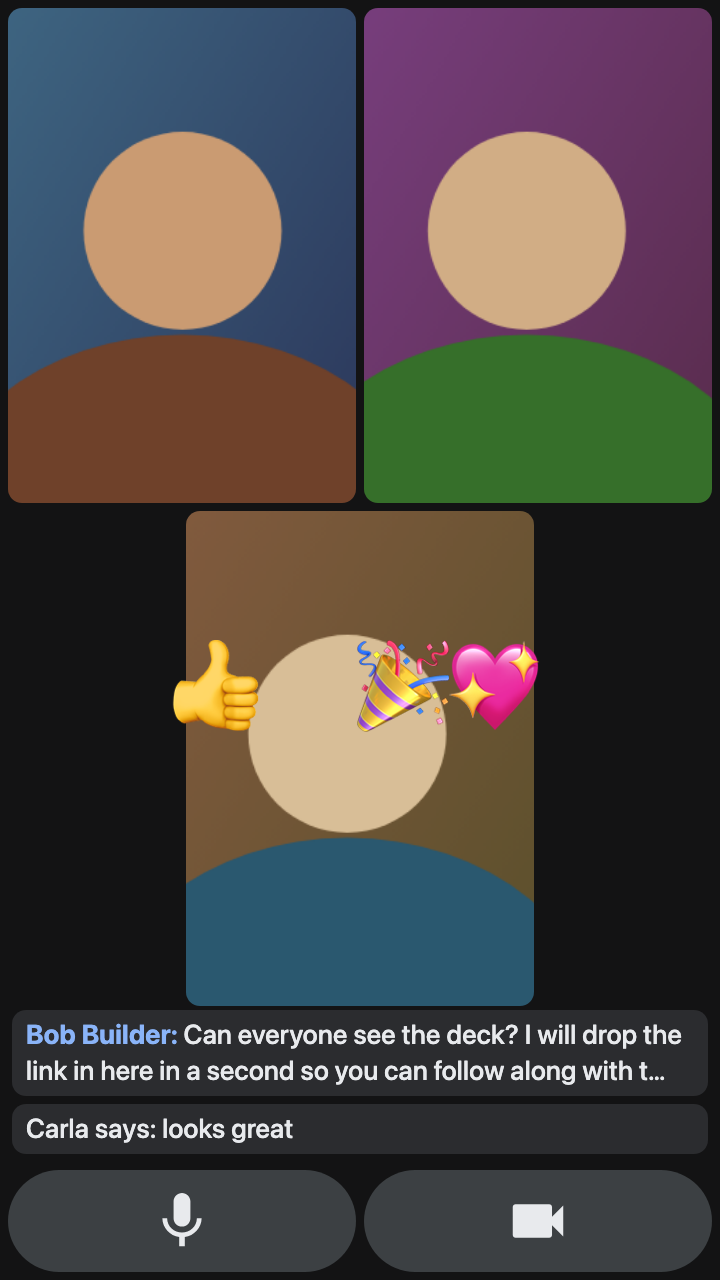
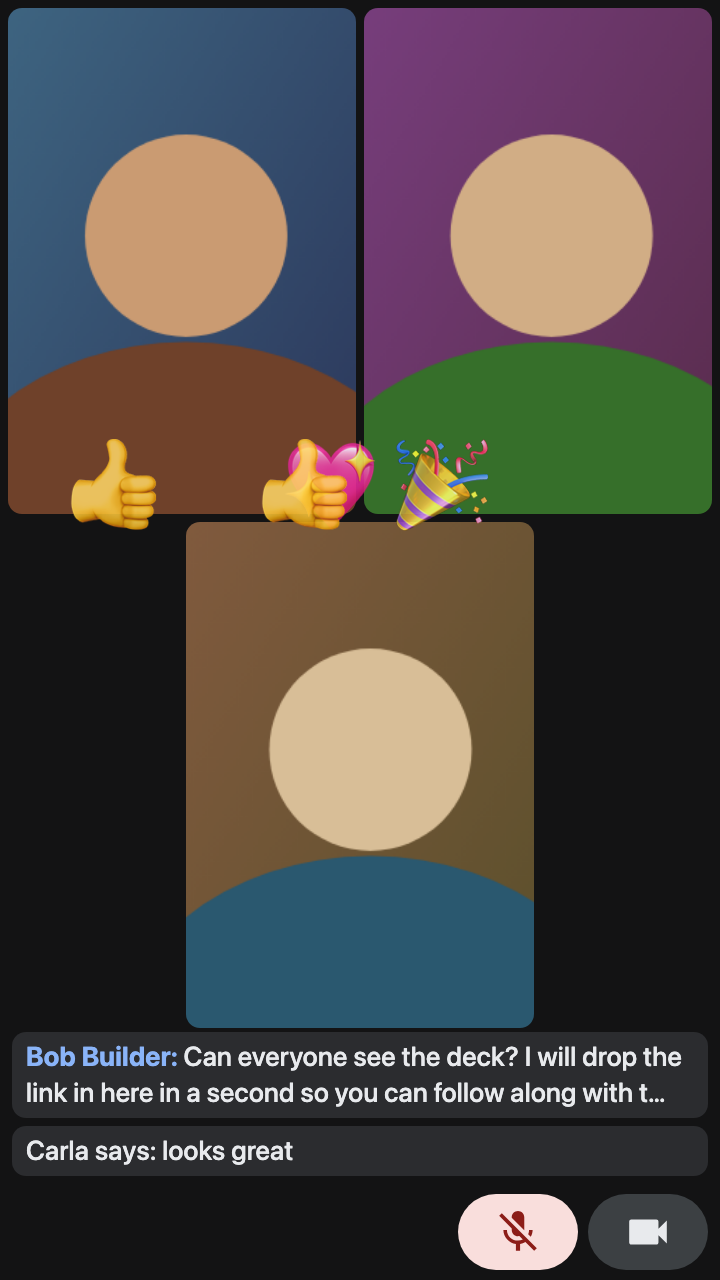
Equal-size grid with overflow tile, smaller indicators, stricter presentation check

diff --git a/content.js b/content.js
@@ -77,8 +77,11 @@
       const cs = getComputedStyle(video);
       // Only your own preview is mirrored.
       if (cs.transform && cs.transform !== 'none' && new DOMMatrix(cs.transform).a < 0) self = true;
-      // Cameras use cover; a shared screen uses contain.
-      if (cs.objectFit === 'contain') presentation = true;
+      // A shared screen uses contain, but so does a camera set to "fit to
+      // frame", so also require a size or shape a camera doesn't send.
+      const ar = video.videoWidth / video.videoHeight;
+      const cameraShaped = [16 / 9, 4 / 3, 9 / 16, 3 / 4, 1].some(a => Math.abs(ar - a) < 0.03);
+      if (cs.objectFit === 'contain' && (!cameraShaped || video.videoHeight > 720)) presentation = true;
     } catch (e) { /* ignore */ }
     const tile = video.closest('[data-participant-id]');
     if (!presentation && tile && /presentation|presenting|präsentation|présentation|presentación/i.test(tile.textContent || '')) {
@@ -92,6 +95,7 @@
   // Tiles to draw, largest first. Needs layout, so sync() rebuilds it twice a
   // second instead of every frame.
   let sources = [];
+  let othersCount = 0;   // participant tiles other than yours, with or without video
   function refreshSources() {
     const out = [];
     for (const v of document.querySelectorAll('video')) {
@@ -108,6 +112,7 @@
     }
     out.sort((a, b) => b.area - a.area);
     sources = out;
+    othersCount = Math.max(0, MEET.tiles().length - 1);
   }
   // Per frame: cheap liveness checks only.
   function sourceVideos() {
@@ -120,7 +125,7 @@
   const reactions = [];       // { emoji, t, x }
   const EMOJI_RE = /^(\p{Extended_Pictographic}|\p{Regional_Indicator})/u;
   // Announcements about Meet's own UI, not from people.
-  const ANNOUNCE_NOISE = /microphone|camera|\bpin|unpin|\bmute|captions|recording|press |shortcut|keyboard|loading|presentation|presenting|main screen|\bscreen\b|\btile|layout|spotlight|connect|network|quality|picture-in-picture/i;
+  const ANNOUNCE_NOISE = /microphone|camera|\bpin|unpin|\bmute|captions|recording|press |shortcut|keyboard|loading|presentation|presenting|main screen|\bscreen\b|\btile|layout|spotlight|connect|network|quality|picture-in-picture|^\d+ results?\b|no results|^you reacted/i;
 
   function pushChat(key, sender, text) {
     if (seenChat.has(key)) return;
@@ -169,6 +174,8 @@
       if (!host || root.contains(host)) continue;
       const live = host.closest('[aria-live]');
       if (live) {
+        // Search counts and the like from pickers and menus.
+        if (live.closest('[role="dialog"], [role="menu"], [role="listbox"], [role="combobox"], [role="search"], form')) continue;
         const text = (rec.type === 'characterData' ? rec.target.data : [...rec.addedNodes].map(n => n.textContent).join(' ')).trim();
         if (text.length < 3 || text.length > 240) continue;
         if (CONFIG.showReactions) {
@@ -244,7 +251,7 @@
 
   let CHAT_FONT, CHAT_LH, CHAT_PAD, STATUS_H;
   function applyUnit() {
-    CHAT_FONT = u(27); CHAT_LH = u(36); CHAT_PAD = u(14); STATUS_H = u(118);
+    CHAT_FONT = u(27); CHAT_LH = u(36); CHAT_PAD = u(14); STATUS_H = u(96);
   }
   applyUnit();
   // Recompute only when the chat, width or second (for expiry) changes.
@@ -336,20 +343,11 @@
     ctx.fill(path);
     ctx.restore();
   }
-  // Side by side across (x, y, w, h), or stacked when `stacked`.
-  function drawStatus(x, y, w, h, stacked) {
-    const gap = u(8);
-    const mic = [!state.micOff, state.micOff ? 'micOff' : 'micOn'];
-    const cam = [!state.camOff, state.camOff ? 'camOff' : 'camOn'];
-    if (stacked) {
-      const bh = (h - gap) / 2;
-      statusBlock(x, y, w, bh, ...mic);
-      statusBlock(x, y + bh + gap, w, bh, ...cam);
-    } else {
-      const bw = (w - gap) / 2;
-      statusBlock(x, y, bw, h, ...mic);
-      statusBlock(x + bw + gap, y, bw, h, ...cam);
-    }
+  // Two blocks of (bw, bh), right edge at `right`, vertically centred on `cy`.
+  function drawStatus(right, cy, bw, bh) {
+    const gap = u(10);
+    statusBlock(right - bw * 2 - gap, cy - bh / 2, bw, bh, !state.micOff, state.micOff ? 'micOff' : 'micOn');
+    statusBlock(right - bw, cy - bh / 2, bw, bh, !state.camOff, state.camOff ? 'camOff' : 'camOn');
   }
 
   function drawMessage(message, areaH) {
@@ -361,20 +359,33 @@
     ctx.textAlign = 'left';
   }
 
-  // Grid of centre-cropped cells inside (left, top, width, areaH).
-  function drawGrid(entries, top, areaH, cols) {
+  // Grid of equal centre-cropped cells. `more` > 0 adds a "+N more" cell.
+  function drawGrid(entries, top, areaH, more) {
+    const n = entries.length + (more ? 1 : 0);
+    const cols = n <= 1 ? 1 : n <= 4 ? 2 : 3;
     const gap = u(8);
-    const rows = Math.ceil(entries.length / cols);
+    const rows = Math.ceil(n / cols);
     const cw = (W - gap * (cols + 1)) / cols;
     const ch = Math.min((areaH - gap * (rows - 1)) / rows, cw * 16 / 9);
     const blockH = rows * ch + (rows - 1) * gap;
     const y0 = top + (areaH - blockH) / 2;
-    entries.forEach((entry, i) => {
+    for (let i = 0; i < n; i++) {
       const c = i % cols, r = Math.floor(i / cols);
-      const inRow = r === rows - 1 ? entries.length - r * cols : cols;
+      const inRow = r === rows - 1 ? n - r * cols : cols;
       const rowW = inRow * cw + (inRow - 1) * gap;
-      drawCover(entry.video, (W - rowW) / 2 + c * (cw + gap), y0 + r * (ch + gap), cw, ch);
-    });
+      const x = (W - rowW) / 2 + c * (cw + gap), y = y0 + r * (ch + gap);
+      if (i < entries.length) { drawCover(entries[i].video, x, y, cw, ch); continue; }
+      ctx.fillStyle = '#2b2c2f';
+      ctx.beginPath();
+      ctx.roundRect(x, y, cw, ch, u(18));
+      ctx.fill();
+      ctx.fillStyle = '#e8eaed';
+      ctx.font = `500 ${u(44)}px ${FONT}`;
+      ctx.textAlign = 'center';
+      ctx.textBaseline = 'middle';
+      ctx.fillText(`+${more} more`, x + cw / 2, y + ch / 2);
+      ctx.textAlign = 'left';
+    }
   }
 
   // Presenting: slide at full width and its own aspect ratio, chat under it,
@@ -386,7 +397,7 @@
     const presH = Math.round(w / aspect);
     // Chat wraps against the width, so size in two steps.
     setSize(w, W === w ? H : presH, w / 960);
-    const rowH = u(150);
+    const rowH = u(200);
     const gap = u(8);
     const chatLayout = layoutChat();
     setSize(w, presH + chatLayout.height + rowH + gap * 2, w / 960);
@@ -398,10 +409,11 @@
     if (chatLayout.height) drawChat(chatLayout, presH);
 
     const rowY = H - rowH - gap;
-    const statusW = u(300);
-    drawStatus(W - statusW - gap, rowY, statusW, rowH, false);
-    // 4:5 tiles, left-aligned.
-    const tw = Math.round(rowH * 0.8);
+    const sb = u(104);
+    drawStatus(W - gap * 2, rowY + rowH / 2, sb, sb);
+    // Square tiles, left-aligned, narrower if they would reach the indicators.
+    const avail = W - gap * 5 - sb * 2 - u(10);
+    const tw = Math.min(rowH, Math.floor(avail / Math.max(1, rest.length)) - gap);
     rest.forEach((entry, i) => drawCover(entry.video, gap + i * (tw + gap), rowY, tw, rowH));
   }
 
@@ -429,13 +441,13 @@
     if (!videos.length) {
       drawMessage('No video right now', areaH);
     } else {
-      const shown = videos.slice(0, CONFIG.maxGridTiles);
-      const cols = shown.length <= 1 ? 1 : shown.length <= 4 ? 2 : 3;
-      drawGrid(shown, u(8), areaH - u(8), cols);
+      const over = videos.length > CONFIG.maxGridTiles;
+      const shown = over ? videos.slice(0, CONFIG.maxGridTiles - 1) : videos;
+      drawGrid(shown, u(8), areaH - u(8), over ? Math.max(videos.length, othersCount) - shown.length : 0);
     }
     if (CONFIG.showReactions && reactions.length) drawReactions(areaH);
     if (chatLayout.height) drawChat(chatLayout, areaH);
-    drawStatus(u(8), H - STATUS_H + u(8), W - u(16), STATUS_H - u(16), false);
+    drawStatus(W - u(12), H - STATUS_H / 2, u(120), u(76));
   }
 
   // Docked button + preview

diff --git a/test/mock-meet.html b/test/mock-meet.html
@@ -34,6 +34,10 @@
 </div></div>
 <script>
   const q = new URLSearchParams(location.search), present = q.has('present');
+  // ?n=9: that many other participants instead of 3.
+  for (let k = 4; k <= +q.get('n'); k++) {
+    document.querySelector('.tile.self').insertAdjacentHTML('beforebegin', `<div class="tile" data-participant-id="x${k}"><video autoplay muted playsinline></video></div>`);
+  }
   document.querySelectorAll('.tile').forEach((tile, i) => {
     const c = document.createElement('canvas'); c.width = i === 0 && present ? 1600 : 640; c.height = i === 0 && present ? 900 : 360;
     const x = c.getContext('2d'); let t = 0; const hue = i * 90;
@@ -66,7 +70,7 @@
   }));
   window.sim = () => {
     const l = document.getElementById('live');
-    for (const text of ['Carla says: looks great', 'The presentation by Alice was added to the main screen.', 'Loading...']) {
+    for (const text of ['Carla says: looks great', 'The presentation by Alice was added to the main screen.', 'Loading...', '35 results.', 'You reacted with 👍.']) {
       const d = document.createElement('div'); d.textContent = text; l.append(d);
     }
     for (const e of ['👍','🎉','💖']) { const r = document.createElement('div'); r.innerHTML = '<img alt="'+e+'">'; document.body.append(r); }

diff --git a/README.md b/README.md
@@ -19,7 +19,8 @@ Firefox's built-in PiP show that video.
 - Presenting: the shared screen at full width, with participant tiles and
   mic/camera indicators in a row under it. 1280 px wide; height follows the
   slide's aspect ratio.
-- Not presenting: a 720x1280 grid of up to 6 participants, centre-cropped.
+- Not presenting: a 720x1280 grid of equal, centre-cropped tiles. Past 6
+  participants the last tile reads "+N more".
 - Recent chat messages and reactions are drawn in both layouts.
 - The PiP window's mute button toggles Meet's microphone.
 - The PiP window's pause button turns Meet's camera off.
@@ -68,7 +69,7 @@ Extension options are in the `CONFIG` object at the top of `content.js`.
 ## Testing
 
 `test/mock-meet.html` fakes a call. Serve the repo root and open it; add
-`?present` for a screenshare.
+`?present` for a screenshare, `?n=9` for more participants.
 
 ## License
 
